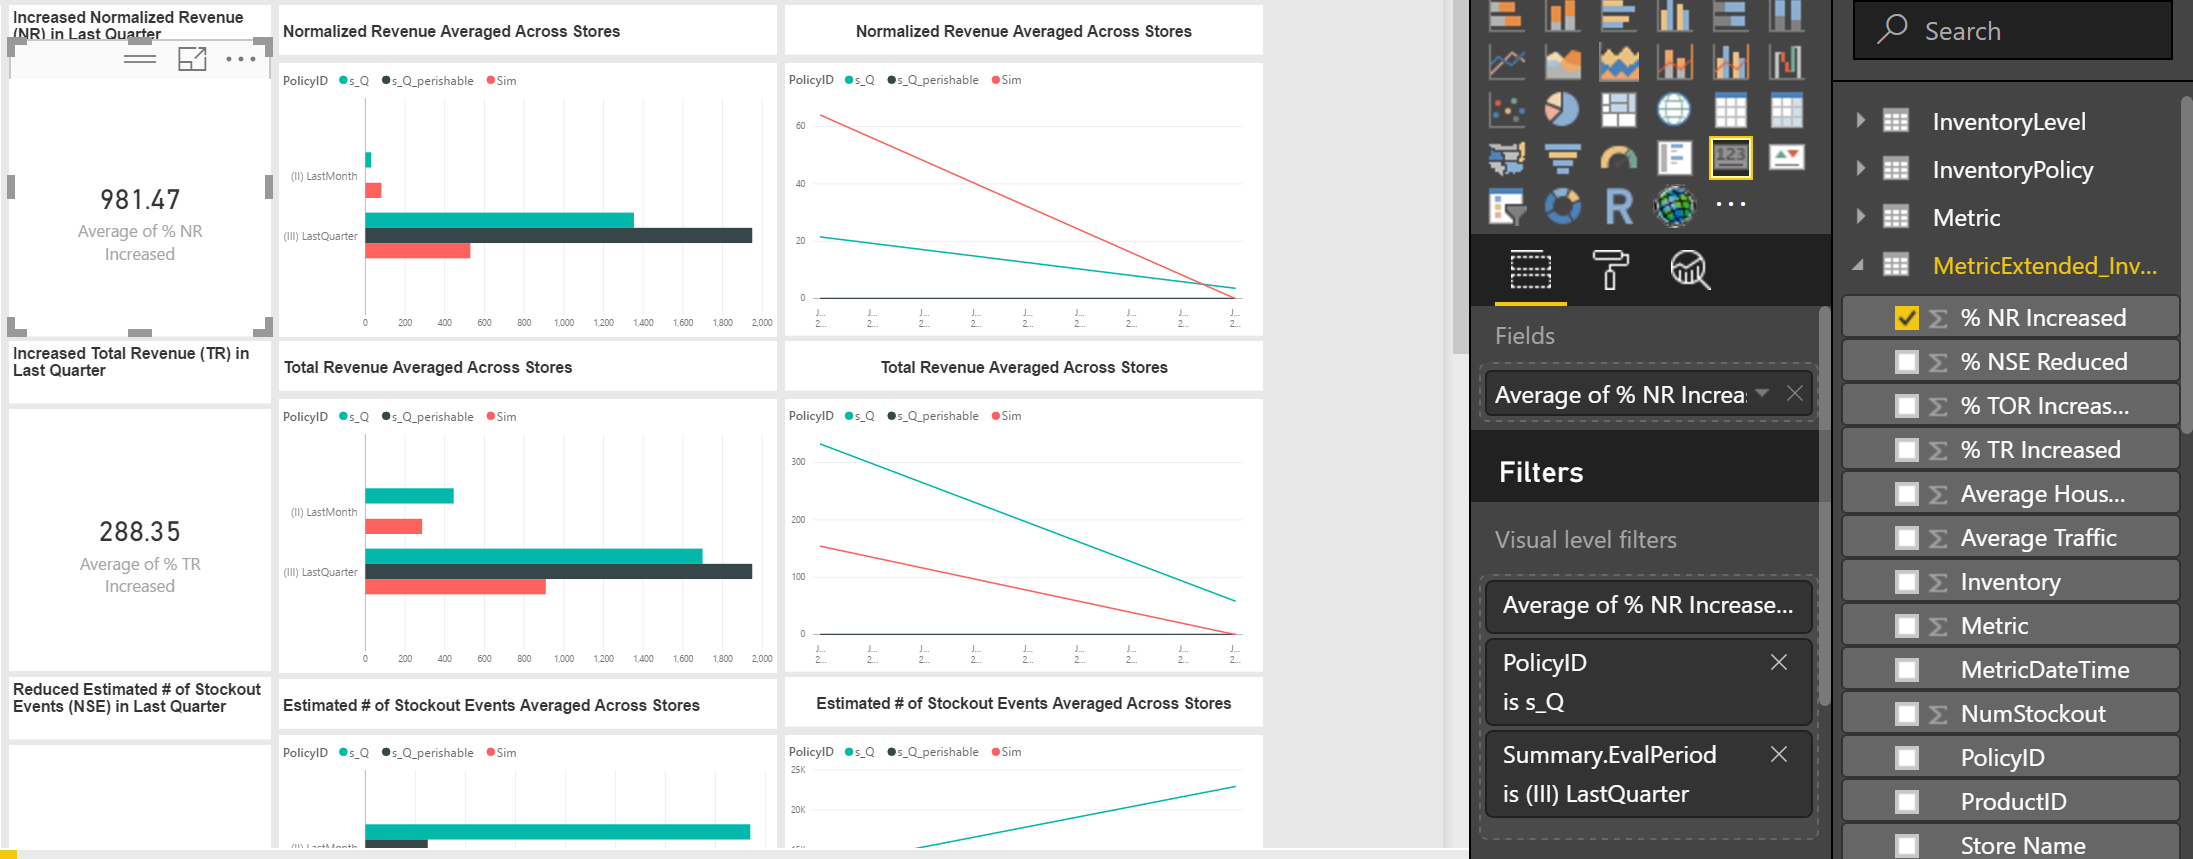
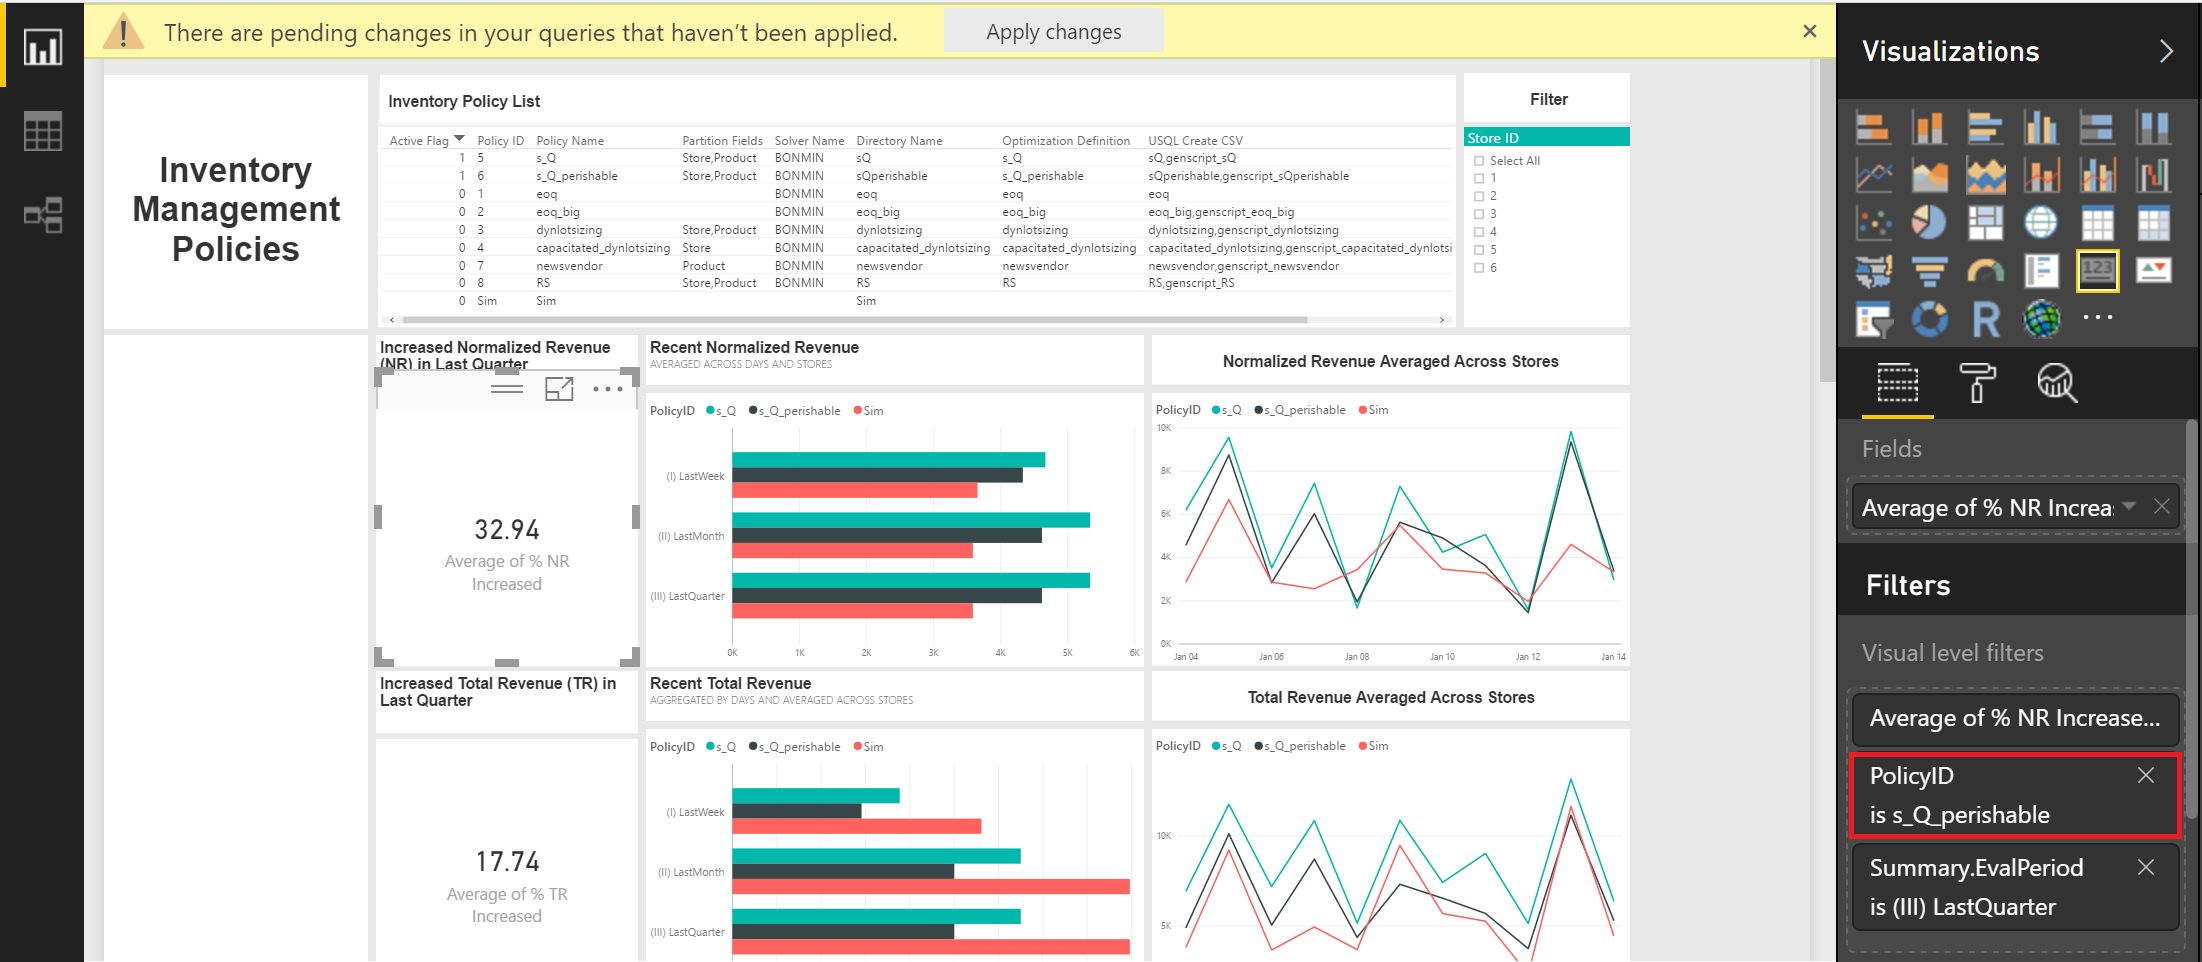
- Updated the Power BI section

diff --git a/Manual Deployment Guide/README.md b/Manual Deployment Guide/README.md
@@ -26,7 +26,6 @@ You will need the following accounts and software to create this solution:
 
 ## Architecture
 ![](Figures/SolutionArchitecture.png)
-  *<center> Figure 1. Inventory Optimization Architecture </center>*
 
 
 The figure above shows the overall architecture of the Inventory Optimization Solution. Below is a brief introduction of each component. 
@@ -353,57 +352,90 @@ We will create a **Main** web job that invokes the other web jobs once every hou
 For details of the function of each web job, please see the **Solution Overview** section in the **Technical Guide.pdf**.     
 
 ### 11. Set up PowerBI Dashboard
-We have designed a Power BI dashboard to visualize relevant information of the inventory optimization. 
-The Power BI file of the dashboard named *InventoryOptimizationDashboard.pbix* can be found in the Power 
-BI directory. First, you need to open the file by double clicking. The figure below 
-is what you will see after opening the file.
 
-![Dashboard with Prepopulated Data](Figures/open_dashboard.png)
-*<center> Figure 2. Power BI Dashboard with Prepopulated Data </center>*
+We have designed a Power BI dashboard to visualize the results and relevant information of the inventory optimization solution. In this step, we will explain how to set up the dashboard.
 
-The dashboard is prepopulated with default data so that you could have a quick glance at the results of
-the solution. Next, you will need to take the following steps to configure the dashboard:
+>   **Note**: The prerequisite of this step is to download and install the free software [Power BI desktop](https://powerbi.microsoft.com/desktop).
 
-- On the rightmost panel named *Fields*, right click the table named *InventoryLevel* and select *Edit 
-Query*. You will see the following 
+**Download the Power BI report file and sign-in**
 
-  ![Edit Data Source of InventoryLevel Table](Figures/edit_query_inventory_level.png)
-  *<center> Figure 3. Edit Data Source of InventoryLevel Table </center>*
+-   Make sure you have installed the latest version of [Power BI desktop](https://powerbi.microsoft.com/desktop). If not, you may see an error message showing that it is unable to open the dashboard when you try to open the Power BI file.
 
-  Then, click *Source* under the *APPLIED STEPS* on the right side and enter the URL of your inventory table
+-   In this GitHub repository, you can download the Power BI file of the dashboard *InventoryOptimizationSolution.pbix* under the folder [Power BI](https://github.com/Azure/cortana-intelligence-inventory-optimization/blob/master/Manual%20Deployment%20Guide/Power%20BI/) and then open it by double clicking.
 
-  ![Edit the URL of InventoryLevel Table](Figures/edit_url_inventory_level.png)
-  *<center> Figure 4. Edit the URL of InventoryLevel Table </center>*
-  
-  adl://[ADL_Name].azuredatalakestore.net/orders/inventory.csv
+-   The dashboard is prepopulated with cached data so that you could have a quick glance at the results of the solution. You might see a message saying "There are pending changes in your queries that haven't been applied." Please **DO NOT** Apply Changes since the data sources have not been updated yet.
 
-  where you need to replace the [ADL_Name] with the name of the Azure Data Lake store that you have chosen, and click *OK*.
+    >   **Note**: The visualizations that you see now in your Power BI report are the cached results from a previous demo deployment, rather than the real data in your own deployment. You will see the visualizations that correspond to the data sitting under your subscription after you follow the below steps to change the data connection to your own Azure Data Lake Store.
 
-  Next, sign in to your Azure account by clicking *Sign 
-  in* in the pop-up window below
+-   Sign in by clicking **Sign in** on the top-left corner. Note: You must have a Microsoft Office 365 subscription for Power BI access.
 
-  ![Enter Azure Credentials](Figures/enter_credentials.png)
-  *<center> Figure 5. Enter Azure Credentials </center>*
+-   Click **Edit Queries** on the top and open the query editor. You will see 5 Queries in the left panel of the query editor. You might also see an error message saying "DataFormat.Error: Invalid URI: The hostname could not be parsed.". Please ignore this error message for now and follow the instructions below to update the data sources. Once the data sources are updated, the error will be gone.
 
-  After that, click the button *Connect* to connect to the data source. 
+    ![Click Edit Queries to Open the Query Editor](Figures/click_edit_queries.png)
 
-- On the rightmost panel of Figure 3, right click the table named *InventoryPolicy* and select 
-*Edit Query*. Change the URL of the table to 
-adl://[ADL_Name].azuredatalakestore.net/configuration/InventoryPolicy.txt
 
-- Similarly, right click the table named *Metric* and *MetricExtended_InventoryLevel*. Then, select 
-*Edit Query* and change the URL of these two tables to 
-adl://[ADL_Name].azuredatalakestore.net/orders/metric_test.csv
+**Update the Azure Data Lake Store account in the Power BI file**
 
-- Right click the table named *StoreInfo* and select *Edit Query* to change the URL of the table to
-adl://[ADL_Name].azuredatalakestore.net/publicparameters/stores.csv
+Next, you will need to take the following steps to update the data sources:
 
-- Right click the table named *SummaryMetric* and select *Edit Query* to change the URL of the table to
-adl://[ADL_Name].azuredatalakestore.net/orders/summary_metric_test.csv
+-   Click **StoreInfo** query and you will see that this query is highlighted in a darker color as the following screenshot shows. Then, click the **Advanced Editor** on the top, which is next to the **Refresh Preview**.
 
-After the above steps, you should be able to see the recent results gradually show up in the dashboard by clicking the **Refresh** button above the dashboard. 
+    <img src="Figures/click_storeinfo_query.png" width="300">
 
-For details of the Power BI dashboard content, please see the **Power BI Visualization Guide** section in the **Technical Guide.pdf**
+-   On the pop-up Advanced Editor window, replace the [ADL_NAME] in the first line with the name of the Azure Data Lake Store that you deployed in the previous steps.
+
+    ![Update the Azure Data Lake Store name](Figures/change_adl_name.png)
+
+-   Then, click **Done** on the bottom-right corner of the Advanced Editor window. You will see a warning message below
+
+    ![Click Edit Credentials of Data Lake](Figures/click_edit_credentials.png)
+
+-   Click **Edit Credentials** in the above message and sign in the Azure Data Lake Store that you deployed by clicking **Sign in** in the pop-up window with your Azure account name and password.
+
+-   Repeat the above steps that you have done for **StoreInfo** query (click the corresponding query, open the corresponding advanced query editor and replace the [ADL_NAME] with your data lake store name) on the other 4 queries: **InventoryPolicy** query, **InventoryLevel** query, **MetricExtended_InventoryLevel** query, and **SummaryMetric** query.
+
+-   Click **Close & Apply** on the top-left, and you will see the visualization report in Power BI Desktop.
+
+    ![Click Close & Apply](Figures/click_close_apply.png)
+
+>   For details of the Power BI dashboard content, please see the **Power BI Visualization Guide** section in the **Technical Guide.pdf**.
+
+-   [Optional] You can click **Refresh** on the top if you want to refresh the report, when there are new data coming in.
+
+    ![Click Refresh](Figures/click_refresh.png)
+
+
+**Select the active policy being compared with the baseline policy**
+
+The dashboard shows the performance metrics of two active inventory optimization policies and a basedline policy. The policy IDs of the active policies are s_Q and s_Q_perishable respectively, while the policy ID of the baseline policy is Sim. By comparing an active policy with the baseline policy, we will see the performance improvements generated by inventory optimization.
+
+>   **Note**: In the dashboard, the improvements of s_Q_perishable policy over the baseline policy are displayed *by default*. The current step is needed if you want to change the active policy being compared with the baseline policy to s_Q.
+
+We can choose which acive policy to be compared with the baseline policy when computing the improvement ratio of each metric shown in each of the 4 cards in the Performance Evaluation part of the dashboard. For instance, you can click the card indicating the increased normalized revenue in the last quarter as follows
+
+![Click the Card Showing Normalized Revenue Improvement](Figures/click_card_normalized_revenue.png)
+
+On the right-hand side, you can find that **PolicyID is s_Q_perishable** under the **Visual level filters** of the **Filters** panel. If you move your cursor to **PolicyID is s_Q_perishable**, you will see an arrow sign appearing. You can further click this arrow sign and choose s_Q policy instead of s_Q_perishable policy. Typically you should only choose one of the active policies. In case you select both of them, the average improvements of the s_Q and s_Q_perishable over the baseline policy will be shown.
+
+<img src="Figures/visual_level_filters_policy_id.png" width="300">   
+
+**[Optional] Publish the dashboard to** [Power BI online](http://www.powerbi.com/)
+
+>   Note that this step requires a Power BI account (or Office 365 account).
+
+-   Click **Publish** on the top panel. Choose **My workspace** (or any other workspace where you wish to publish the dashboard) and after a little while you will see a window showing that pulishing to Power BI is succeeded.
+
+-   Click the link "Open 'InventoryOptimizationSolution.pbix' in Power BI" in the window to open the dashboard in a browser. You should see the dashboard in the browser. If not, click 'InventoryOptimizationSolution' under **REPORTS** section of **My Workspace** in the navigation panel on the left-hand side. You may need to click the arrow sign besides **My Workspace** and scroll down to find **REPORTS** section.
+
+-   Click **Pin Live Page** on the top. On the pop-up window, choose **New Dashboard**, and put the name of the new dashboard, e.g. InventoryOptimizationSolution, and click **Pin Live**.
+
+-   Click **InventoryOptimizationSolution** in the **DASHBOARDS** section of **My Workspace**. Click the three dots on the top-right of the dashboard tile (see the red box in the screenshot below). You may need to scoll to the right to see these three dots. Click the middle pencil icon to edit the tile details. In **Functionality**, check **Display last refresh time**, and click **Apply**. You will see the last refresh time showing up on the top-left of the dashboard.
+
+     ![Click Three Dots](Figures/click_three_dots.png) 
+
+-   Scroll down the bar on the right-hand side of **My Workspace** to find **InventoryOptimizationSolution** in the **DATASETS** section. Right click the dots besides **InventoryOptimizationSolution** and select **SCHEDULE REFRESH**. You might see a message "Your data source can't be refreshed because the credentials are invalid. Please update your credentials and try again." Please click *each* **Edit credentials** below this message and sign in your Office 365 account. Once this is done, you can click **Scheduled refresh** and choose **On** under **Keep your data up to date**. Then, you can specify the refresh frequency and select times for automatic data refresh by clicking **Add another time**.
+
+    <img src="Figures/specify_refresh_times.png" width="300">
 
 ## Validation and Results
 
@@ -514,4 +546,5 @@ client_secret = '<CLIENT_SECRET>'
 
 
 ## Delete the Solution
+
 If you want to delete the solution, select the resource group ***inventoryopt[UI][N]_resourcegroup***, click on **Delete** at the top of the new opened blade. Confirm the resource group name and click **Delete** at the bottom of this blade.
